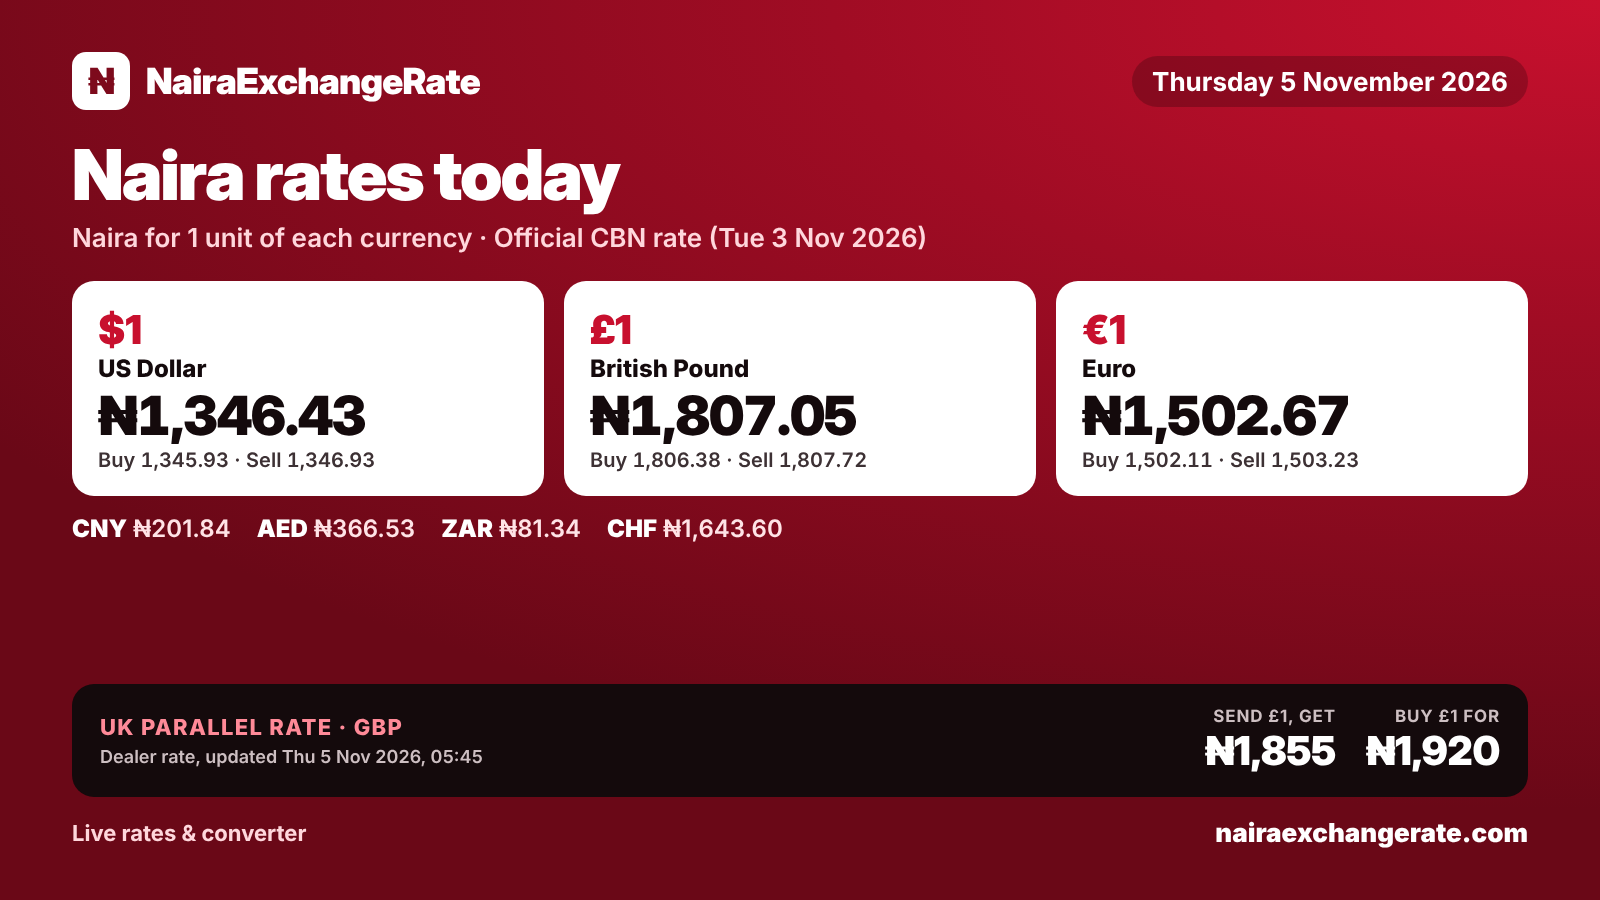
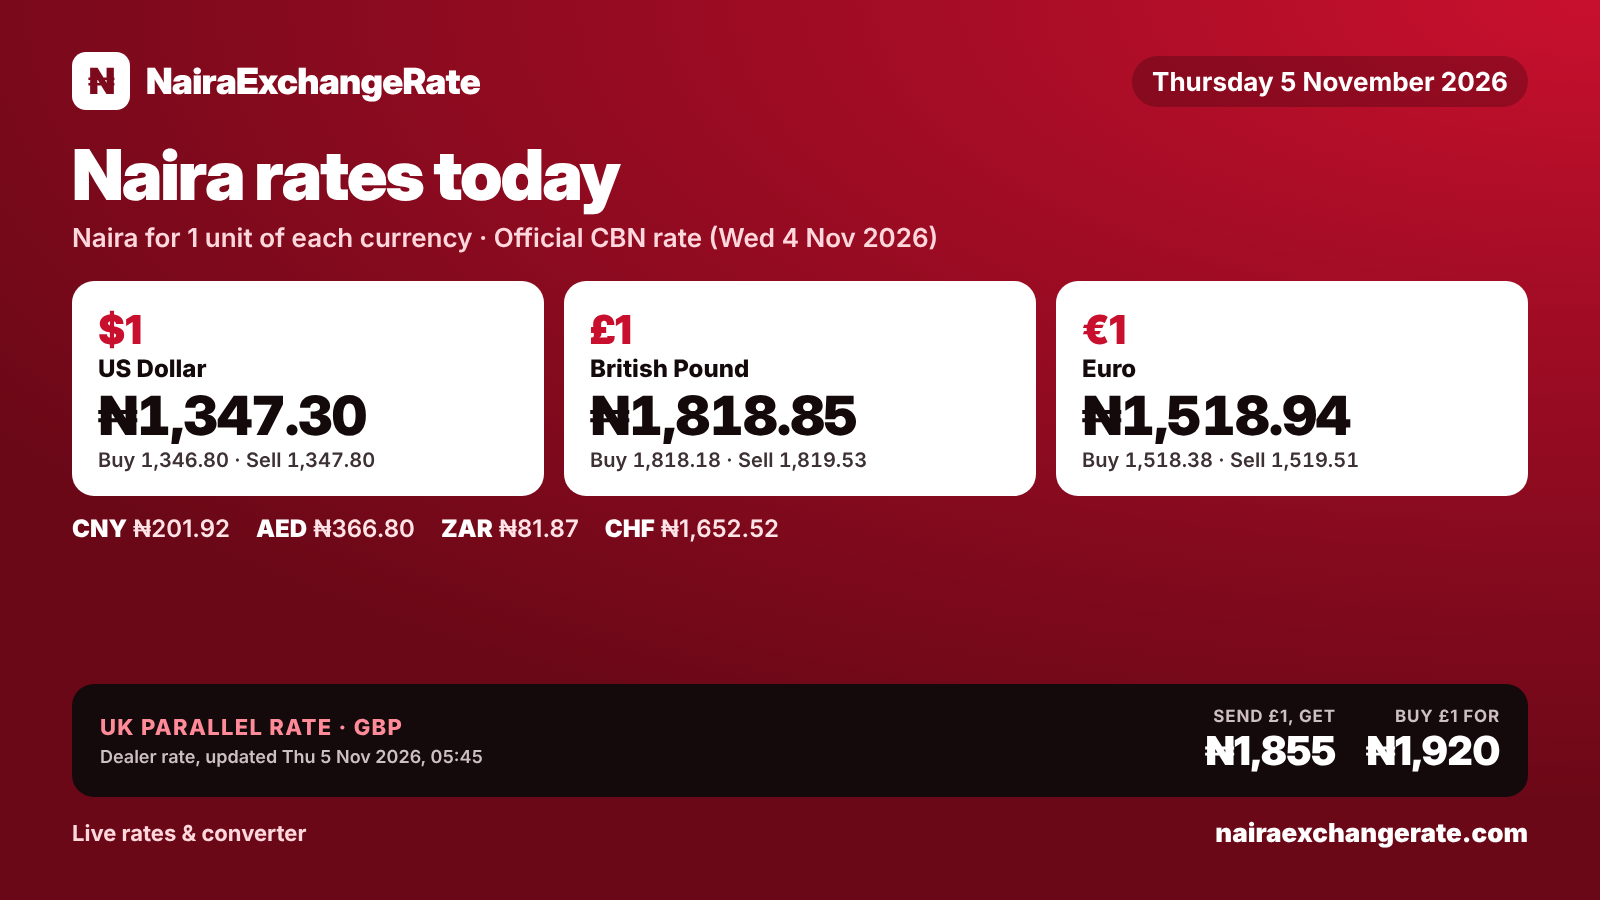
CBN rates 2026-11-04
Claude-Session: https://claude.ai/code/session_01NfXuJwbZzV9T65bdfXp15k

diff --git a/index.html b/index.html
@@ -321,57 +321,57 @@ footer .wrap{padding-block:22px 34px;font-size:.84rem;color:var(--muted);display
     }
   ],
   "cbn": {
-    "date": "2026-11-03",
+    "date": "2026-11-04",
     "rates": {
       "usd": {
-        "buy": 1345.9348,
-        "middle": 1346.4348,
-        "sell": 1346.9348
+        "buy": 1346.7983,
+        "middle": 1347.2983,
+        "sell": 1347.7983
       },
       "gbp": {
-        "buy": 1806.3791,
-        "middle": 1807.0501,
-        "sell": 1807.7212
+        "buy": 1818.1777,
+        "middle": 1818.8527,
+        "sell": 1819.5277
       },
       "eur": {
-        "buy": 1502.1134,
-        "middle": 1502.6717,
-        "sell": 1503.23
+        "buy": 1518.3804,
+        "middle": 1518.9441,
+        "sell": 1519.5078
       },
       "chf": {
-        "buy": 1642.9868,
-        "middle": 1643.5972,
-        "sell": 1644.2075
+        "buy": 1651.9052,
+        "middle": 1652.5185,
+        "sell": 1653.1317
       },
       "cny": {
-        "buy": 201.7682,
-        "middle": 201.8431,
-        "sell": 201.9181
+        "buy": 201.8431,
+        "middle": 201.9181,
+        "sell": 201.993
       },
       "jpy": {
-        "buy": 8.5121,
-        "middle": 8.5153,
-        "sell": 8.5184
+        "buy": 8.5079,
+        "middle": 8.511,
+        "sell": 8.5142
       },
       "aed": {
-        "buy": 366.3903,
-        "middle": 366.5264,
-        "sell": 366.6625
+        "buy": 366.6653,
+        "middle": 366.8014,
+        "sell": 366.9375
       },
       "sar": {
-        "buy": 358.4483,
-        "middle": 358.5815,
-        "sell": 358.7148
+        "buy": 358.7826,
+        "middle": 358.9158,
+        "sell": 359.049
       },
       "zar": {
-        "buy": 81.3111,
-        "middle": 81.3413,
-        "sell": 81.3715
+        "buy": 81.8354,
+        "middle": 81.8658,
+        "sell": 81.8962
       },
       "xof": {
-        "buy": 2.2839,
-        "middle": 2.2939,
-        "sell": 2.3039
+        "buy": 2.2746,
+        "middle": 2.2846,
+        "sell": 2.2946
       }
     }
   },
